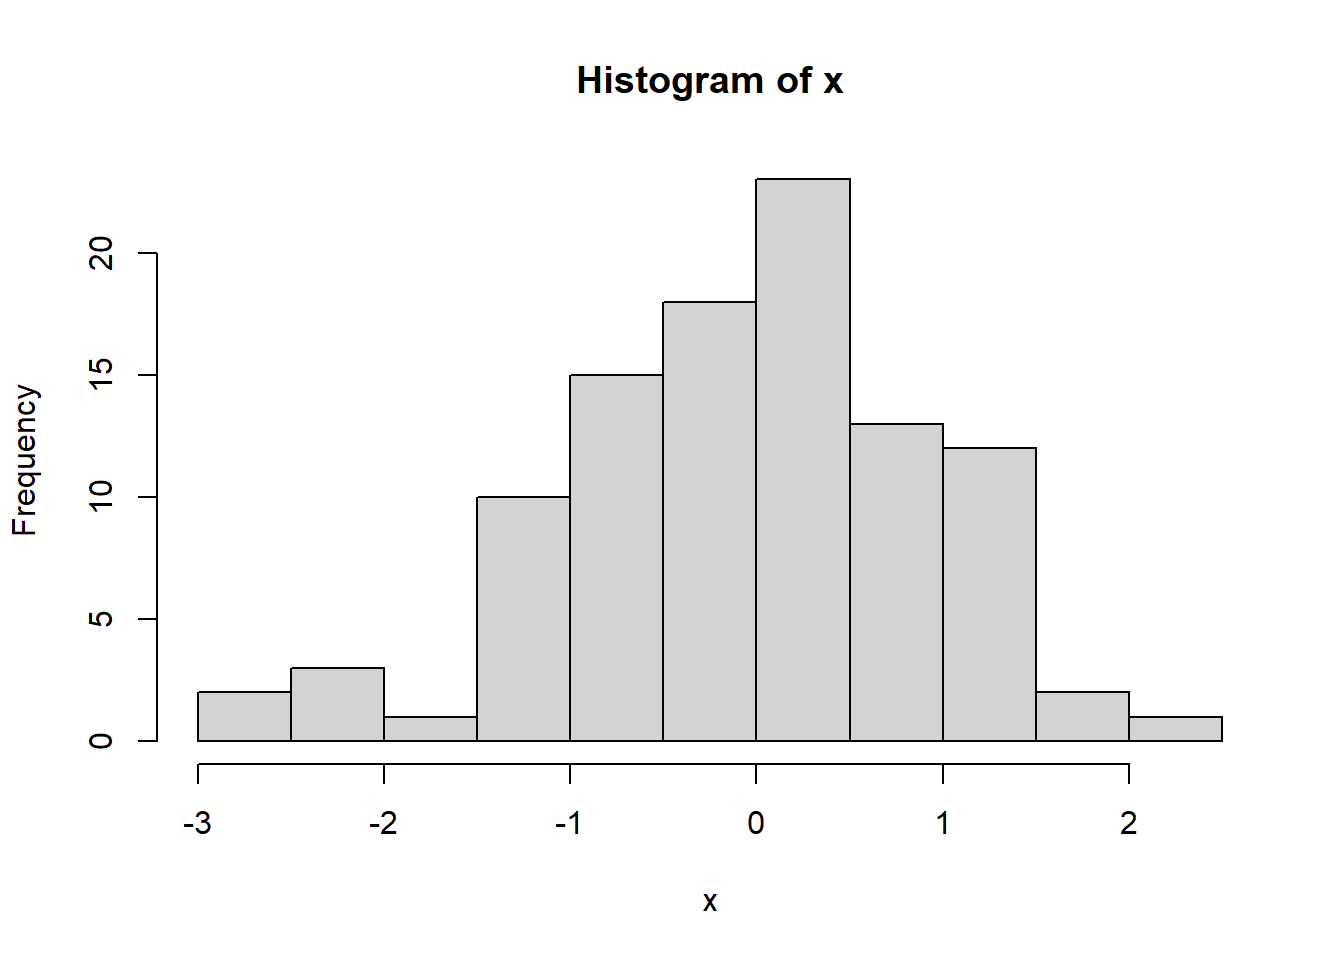
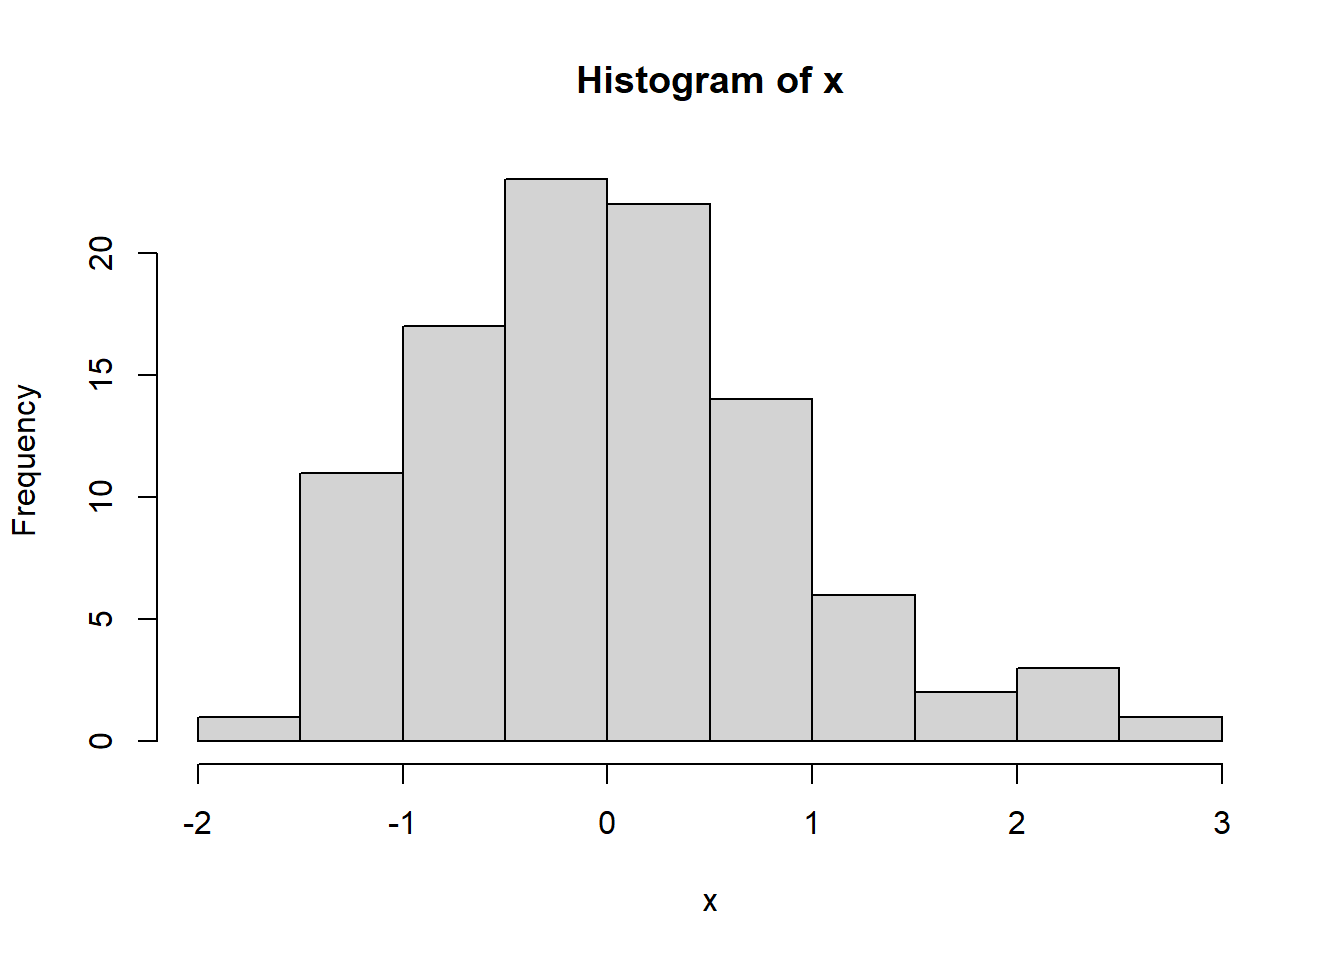
Built site for gh-pages

diff --git a/week-01.html b/week-01.html
@@ -7,7 +7,7 @@
 <meta name="viewport" content="width=device-width, initial-scale=1.0, user-scalable=yes">
 
 
-<title>Week 01 — Getting Started – Course Notebook Of Data Science: Foundations ^&amp; applications</title>
+<title>Week 01 — Getting Started – Course Notebook Of Data Science: Foundations &amp; applications</title>
 <style>
 code{white-space: pre-wrap;}
 span.smallcaps{font-variant: small-caps;}
@@ -115,7 +115,7 @@ pre > code.sourceCode > span > a:first-child::before { text-decoration: underlin
       <div class="navbar-container container-fluid">
       <div class="navbar-brand-container mx-auto">
     <a class="navbar-brand" href="./index.html">
-    <span class="navbar-title">Course Notebook Of Data Science: Foundations ^&amp; applications</span>
+    <span class="navbar-title">Course Notebook Of Data Science: Foundations &amp; applications</span>
     </a>
   </div>
             <div id="quarto-search" class="" title="Search"></div>
@@ -307,7 +307,7 @@ pre > code.sourceCode > span > a:first-child::before { text-decoration: underlin
 <div class="code-copy-outer-scaffold"><div class="sourceCode cell-code" id="cb1"><pre class="sourceCode r code-with-copy"><code class="sourceCode r"><span id="cb1-1"><a href="#cb1-1" aria-hidden="true" tabindex="-1"></a>x <span class="ot">&lt;-</span> <span class="fu">rnorm</span>(<span class="dv">100</span>)</span>
 <span id="cb1-2"><a href="#cb1-2" aria-hidden="true" tabindex="-1"></a><span class="fu">mean</span>(x)</span></code></pre></div><button title="Copy to Clipboard" class="code-copy-button"><i class="bi"></i></button></div>
 <div class="cell-output cell-output-stdout">
-<pre><code>[1] -0.06362135</code></pre>
+<pre><code>[1] 0.0177672</code></pre>
 </div>
 <div class="code-copy-outer-scaffold"><div class="sourceCode cell-code" id="cb3"><pre class="sourceCode r code-with-copy"><code class="sourceCode r"><span id="cb3-1"><a href="#cb3-1" aria-hidden="true" tabindex="-1"></a><span class="fu">hist</span>(x)</span></code></pre></div><button title="Copy to Clipboard" class="code-copy-button"><i class="bi"></i></button></div>
 <div class="cell-output-display">

diff --git a/week-07.html b/week-07.html
@@ -7,7 +7,7 @@
 <meta name="viewport" content="width=device-width, initial-scale=1.0, user-scalable=yes">
 
 
-<title>Week 07 - Bivariate and Multivariate Analysis – Course Notebook Of Data Science: Foundations ^&amp; applications</title>
+<title>Week 07 - Bivariate and Multivariate Analysis – Course Notebook Of Data Science: Foundations &amp; applications</title>
 <style>
 code{white-space: pre-wrap;}
 span.smallcaps{font-variant: small-caps;}
@@ -115,7 +115,7 @@ pre > code.sourceCode > span > a:first-child::before { text-decoration: underlin
       <div class="navbar-container container-fluid">
       <div class="navbar-brand-container mx-auto">
     <a class="navbar-brand" href="./index.html">
-    <span class="navbar-title">Course Notebook Of Data Science: Foundations ^&amp; applications</span>
+    <span class="navbar-title">Course Notebook Of Data Science: Foundations &amp; applications</span>
     </a>
   </div>
             <div id="quarto-search" class="" title="Search"></div>

diff --git a/week-03.html b/week-03.html
@@ -7,7 +7,7 @@
 <meta name="viewport" content="width=device-width, initial-scale=1.0, user-scalable=yes">
 
 
-<title>week 03 - Working with Files and Data in R – Course Notebook Of Data Science: Foundations ^&amp; applications</title>
+<title>week 03 - Working with Files and Data in R – Course Notebook Of Data Science: Foundations &amp; applications</title>
 <style>
 code{white-space: pre-wrap;}
 span.smallcaps{font-variant: small-caps;}
@@ -115,7 +115,7 @@ pre > code.sourceCode > span > a:first-child::before { text-decoration: underlin
       <div class="navbar-container container-fluid">
       <div class="navbar-brand-container mx-auto">
     <a class="navbar-brand" href="./index.html">
-    <span class="navbar-title">Course Notebook Of Data Science: Foundations ^&amp; applications</span>
+    <span class="navbar-title">Course Notebook Of Data Science: Foundations &amp; applications</span>
     </a>
   </div>
             <div id="quarto-search" class="" title="Search"></div>

diff --git a/week-04.html b/week-04.html
@@ -7,7 +7,7 @@
 <meta name="viewport" content="width=device-width, initial-scale=1.0, user-scalable=yes">
 
 
-<title>Week 04 - Exploratory Data Analysis (EDA) – Course Notebook Of Data Science: Foundations ^&amp; applications</title>
+<title>Week 04 - Exploratory Data Analysis (EDA) – Course Notebook Of Data Science: Foundations &amp; applications</title>
 <style>
 code{white-space: pre-wrap;}
 span.smallcaps{font-variant: small-caps;}
@@ -115,7 +115,7 @@ pre > code.sourceCode > span > a:first-child::before { text-decoration: underlin
       <div class="navbar-container container-fluid">
       <div class="navbar-brand-container mx-auto">
     <a class="navbar-brand" href="./index.html">
-    <span class="navbar-title">Course Notebook Of Data Science: Foundations ^&amp; applications</span>
+    <span class="navbar-title">Course Notebook Of Data Science: Foundations &amp; applications</span>
     </a>
   </div>
             <div id="quarto-search" class="" title="Search"></div>

diff --git a/week-05.html b/week-05.html
@@ -7,7 +7,7 @@
 <meta name="viewport" content="width=device-width, initial-scale=1.0, user-scalable=yes">
 
 
-<title>Week 05 - Exploratory Data Analysis (EDA) – Course Notebook Of Data Science: Foundations ^&amp; applications</title>
+<title>Week 05 - Exploratory Data Analysis (EDA) – Course Notebook Of Data Science: Foundations &amp; applications</title>
 <style>
 code{white-space: pre-wrap;}
 span.smallcaps{font-variant: small-caps;}
@@ -115,7 +115,7 @@ pre > code.sourceCode > span > a:first-child::before { text-decoration: underlin
       <div class="navbar-container container-fluid">
       <div class="navbar-brand-container mx-auto">
     <a class="navbar-brand" href="./index.html">
-    <span class="navbar-title">Course Notebook Of Data Science: Foundations ^&amp; applications</span>
+    <span class="navbar-title">Course Notebook Of Data Science: Foundations &amp; applications</span>
     </a>
   </div>
             <div id="quarto-search" class="" title="Search"></div>

diff --git a/week-02.html b/week-02.html
@@ -7,7 +7,7 @@
 <meta name="viewport" content="width=device-width, initial-scale=1.0, user-scalable=yes">
 
 
-<title>Week 02 - R Refresher – Course Notebook Of Data Science: Foundations ^&amp; applications</title>
+<title>Week 02 - R Refresher – Course Notebook Of Data Science: Foundations &amp; applications</title>
 <style>
 code{white-space: pre-wrap;}
 span.smallcaps{font-variant: small-caps;}
@@ -115,7 +115,7 @@ pre > code.sourceCode > span > a:first-child::before { text-decoration: underlin
       <div class="navbar-container container-fluid">
       <div class="navbar-brand-container mx-auto">
     <a class="navbar-brand" href="./index.html">
-    <span class="navbar-title">Course Notebook Of Data Science: Foundations ^&amp; applications</span>
+    <span class="navbar-title">Course Notebook Of Data Science: Foundations &amp; applications</span>
     </a>
   </div>
             <div id="quarto-search" class="" title="Search"></div>

diff --git a/week-06.html b/week-06.html
@@ -7,7 +7,7 @@
 <meta name="viewport" content="width=device-width, initial-scale=1.0, user-scalable=yes">
 
 
-<title>Week 06 - ggplot – Course Notebook Of Data Science: Foundations ^&amp; applications</title>
+<title>Week 06 - ggplot – Course Notebook Of Data Science: Foundations &amp; applications</title>
 <style>
 code{white-space: pre-wrap;}
 span.smallcaps{font-variant: small-caps;}
@@ -115,7 +115,7 @@ pre > code.sourceCode > span > a:first-child::before { text-decoration: underlin
       <div class="navbar-container container-fluid">
       <div class="navbar-brand-container mx-auto">
     <a class="navbar-brand" href="./index.html">
-    <span class="navbar-title">Course Notebook Of Data Science: Foundations ^&amp; applications</span>
+    <span class="navbar-title">Course Notebook Of Data Science: Foundations &amp; applications</span>
     </a>
   </div>
             <div id="quarto-search" class="" title="Search"></div>

diff --git a/Lab/Lab.html b/Lab/Lab.html
@@ -8,7 +8,7 @@
 
 <meta name="author" content="Daniel Marino">
 
-<title>Lab 2 - Exploratory Data Analysis – Course Notebook Of Data Science: Foundations ^&amp; applications</title>
+<title>Lab 2 - Exploratory Data Analysis – Course Notebook Of Data Science: Foundations &amp; applications</title>
 <style>
 code{white-space: pre-wrap;}
 span.smallcaps{font-variant: small-caps;}
@@ -116,7 +116,7 @@ pre > code.sourceCode > span > a:first-child::before { text-decoration: underlin
       <div class="navbar-container container-fluid">
       <div class="navbar-brand-container mx-auto">
     <a class="navbar-brand" href="../index.html">
-    <span class="navbar-title">Course Notebook Of Data Science: Foundations ^&amp; applications</span>
+    <span class="navbar-title">Course Notebook Of Data Science: Foundations &amp; applications</span>
     </a>
   </div>
             <div id="quarto-search" class="" title="Search"></div>

diff --git a/GroupProject/Project.html b/GroupProject/Project.html
@@ -7,7 +7,7 @@
 <meta name="viewport" content="width=device-width, initial-scale=1.0, user-scalable=yes">
 
 
-<title>project – Course Notebook Of Data Science: Foundations ^&amp; applications</title>
+<title>project – Course Notebook Of Data Science: Foundations &amp; applications</title>
 <style>
 code{white-space: pre-wrap;}
 span.smallcaps{font-variant: small-caps;}
@@ -80,7 +80,7 @@ ul.task-list li input[type="checkbox"] {
       <div class="navbar-container container-fluid">
       <div class="navbar-brand-container mx-auto">
     <a class="navbar-brand" href="../index.html">
-    <span class="navbar-title">Course Notebook Of Data Science: Foundations ^&amp; applications</span>
+    <span class="navbar-title">Course Notebook Of Data Science: Foundations &amp; applications</span>
     </a>
   </div>
             <div id="quarto-search" class="" title="Search"></div>

diff --git a/index.html b/index.html
@@ -7,7 +7,7 @@
 <meta name="viewport" content="width=device-width, initial-scale=1.0, user-scalable=yes">
 
 
-<title>Home – Course Notebook Of Data Science: Foundations ^&amp; applications</title>
+<title>Home – Course Notebook Of Data Science: Foundations &amp; applications</title>
 <style>
 code{white-space: pre-wrap;}
 span.smallcaps{font-variant: small-caps;}
@@ -80,7 +80,7 @@ ul.task-list li input[type="checkbox"] {
       <div class="navbar-container container-fluid">
       <div class="navbar-brand-container mx-auto">
     <a class="navbar-brand" href="./index.html">
-    <span class="navbar-title">Course Notebook Of Data Science: Foundations ^&amp; applications</span>
+    <span class="navbar-title">Course Notebook Of Data Science: Foundations &amp; applications</span>
     </a>
   </div>
             <div id="quarto-search" class="" title="Search"></div>
